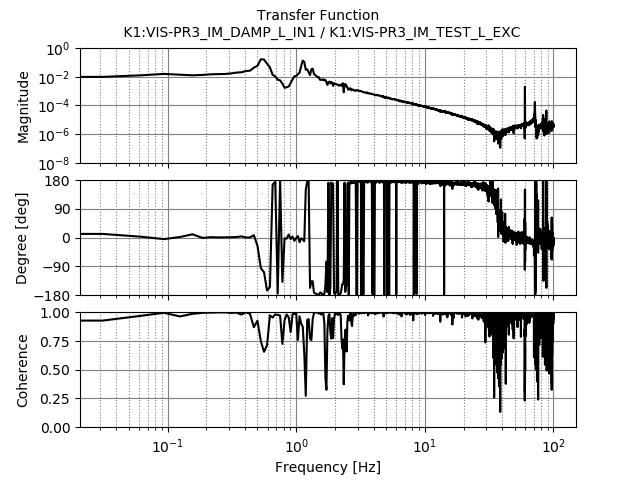
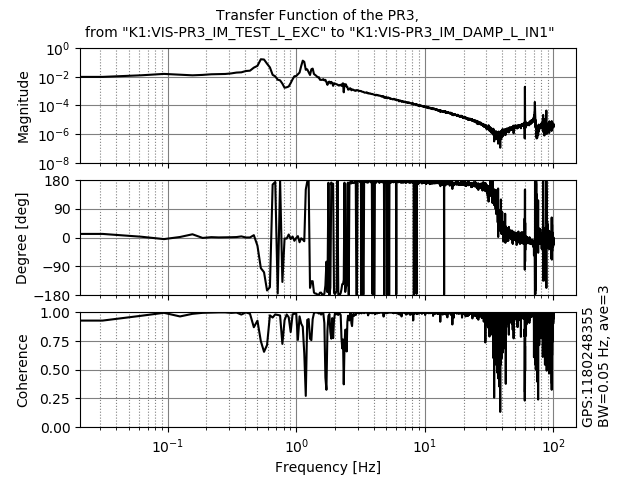
add test.py

Changed region(s): [[0.125, 0.0, 0.8438, 0.0938], [0.9062, 0.5938, 0.9688, 0.9062]]

diff --git a/plot.py b/plot.py
@@ -5,10 +5,41 @@ from dttdata import DttData
 import numpy as np
 
 
-def plottf(xmlname,chA,chB):
+def plottf(date,sus,stage,dof,prefix='./template'):
+    ''' Plot transfer function from template xml file of the diaggui(dtt).
+
+    This function export png file which plots single TF about dof you choose, 
+    does not plot other dof. So, if you choose dof as "L", this function 
+    plots the TF from L to L, does not plot coupling components such as a L-T,L-Y, 
+    and so on. (However, if you want plot about copuling composnent, you can plot 
+    with some modification.)
+
+    Rule of the  dtt xml file name is "<sus>_<stage>_<dof>_<date>.xml".
+    <sus> is a name of the suspension; PR2,PR3,..
+    <stage> is a name of the stage; IM,TM,..
+    <dof> is a excitation point; L,T,..    
+    
+    Parameter
+    ---------
+    date : str
+        JST date, which is given like "YYMMDD".
+    sus : str
+        Name of the suspension.
+    stage : str
+        Name of the stage.
+    dof : str
+        Name of the excitation point.
+    prefix : str
+        Place where the dtt xml files are located. Default is "./template"
+    '''
+    #
+    xmlname = './template/{0}_{1}{2}_exc_{3}.xml'.format(sus,stage,dof,date)
+    chA = 'K1:VIS-{0}_{1}_DAMP_{2}_IN1'.format(sus,stage,dof)
+    chB = 'K1:VIS-{0}_{1}_TEST_{2}_EXC'.format(sus,stage,dof)
     d = DttData(xmlname)
-    f1,mag1,deg1 = d.getCoherence('K1:VIS-PR3_IM_DAMP_L_IN1','K1:VIS-PR3_IM_TEST_L_EXC')
-    f2,mag2,deg2 = d.getTF('K1:VIS-PR3_IM_DAMP_L_IN1','K1:VIS-PR3_IM_TEST_L_EXC')
+    s = d.spect[0]
+    f1,mag1,deg1 = d.getCoherence(chA,chB)
+    f2,mag2,deg2 = d.getTF(chA,chB)
     #
     import matplotlib.pyplot as plt
     fig,(ax0,ax1,ax2) = plt.subplots(3,1)
@@ -36,18 +67,25 @@ def plottf(xmlname,chA,chB):
     ax2.yaxis.set_label_coords(-0.1,0.5)
     ax1.yaxis.set_label_coords(-0.1,0.5)    
     plt.setp(ax0.get_xticklabels(), visible=False)
-    plt.setp(ax1.get_xticklabels(), visible=False)    
-    plt.suptitle('Transfer Function \n {0} / {1}'.format(chA,chB),fontsize=10)
-    plt.savefig(xmlname.replace('xml','png'))
+    plt.setp(ax1.get_xticklabels(), visible=False)
+    plt.suptitle('Transfer Function of the {0}, \n'\
+                 'from "{1}" to "{2}"'.format(sus,chB,chA),fontsize=10)
+    ax_pos = ax2.get_position()
+    fig.text(ax_pos.x1*1.01, ax_pos.y0,
+             'GPS:{0} \n'\
+             'BW={1:3.2f} Hz, ave={2}'\
+             ''\
+             ''.format(int(float(s.t0)),float(s.BW),s.Averages,s.Window),
+                 rotation=90,verticalalignment='bottom')                     
+    plt.savefig(xmlname.replace('xml','png'))    
     plt.close()
+    print('plot as {}'.format(xmlname.replace('xml','png')))
     
     
 if __name__ == '__main__':
+    date = '180614'       
     sus = 'PR3'
-    exc = 'IML'
-    date = '180614'
-    xmlname = './template/{0}_{1}_exc_{2}.xml'.format(sus,exc,date)
-    chA = 'K1:VIS-PR3_IM_DAMP_L_IN1'
-    chB = 'K1:VIS-PR3_IM_TEST_L_EXC'
-    plottf(xmlname,chA,chB)
+    stage = 'IM'
+    dof = 'L'
+    plottf(date,sus,stage,dof)
     

diff --git a/test.py b/test.py
@@ -1,0 +1,80 @@
+#
+#! coding:utf-8
+
+from plot import plottf
+
+def testReference():
+    xmlname = 'test.xml'
+    d = DttData(xmlname)
+    d.getAllSpectrumName()
+
+def testDttSpectrumInfo():
+    xmlname = 'test.xml'
+    d = DttData(xmlname)    
+    chnameA = 'K1:PEM-IY0_SEIS_NS_SENSINF_OUT_DQ'
+    d.getASDInfo(chnameA,ref=False)
+    
+def testASD():
+    xmlname = 'test.xml'
+    d = DttData(xmlname)    
+    chnameA = 'K1:PEM-IY0_SEIS_NS_SENSINF_OUT_DQ'
+    chnameB = 'K1:PEM-EX1_SEIS_NS_SENSINF_OUT_DQ'
+    chnameC = 'K1:PEM-IY0_SEIS_WE_SENSINF_OUT_DQ'
+    plt.figure(num=None, figsize=(12, 6), dpi=80)
+    f,asd = d.getASD(chnameA,ref=True)
+    plt.loglog(f,asd,label=chnameA+'Ref')
+    f,asd = d.getASD(chnameA,ref=False)
+    plt.loglog(f,asd,label=chnameA)
+    f,asd = d.getASD(chnameB,ref=False)
+    plt.loglog(f,asd,label=chnameB)
+    #plt.ylim(1e-23,1e-12)
+    plt.legend()
+    plt.savefig('test_asd.png')
+    plt.close()    
+   
+    
+def testCSD():
+    xmlname = 'test.xml'
+    d = DttData(xmlname)
+    chnameA = 'K1:PEM-IY0_SEIS_NS_SENSINF_OUT_DQ'
+    chnameB = 'K1:PEM-EX1_SEIS_NS_SENSINF_OUT_DQ'
+    chnameC = 'K1:PEM-IY0_SEIS_WE_SENSINF_OUT_DQ'
+    f,csd,deg = d.getCSD(chnameA,chnameB,ref=False)
+    plt.figure(num=None, figsize=(12, 6), dpi=80)
+    plt.loglog(f,csd,label='/'.join([chnameB,chnameA]))
+    #f,csd,deg = d.getCSD(chnameA,chnameC)
+    plt.ylim(1e-23,1e-12)
+    #plt.loglog(f,csd,label='/'.join([chnameC,chnameA]))
+    plt.legend()
+    plt.savefig('test_csd.png')
+    plt.close()    
+
+def testCoherence():
+    xmlname = 'test.xml'
+    d = DttData(xmlname)    
+    chnameA = 'K1:PEM-IY0_SEIS_NS_SENSINF_OUT_DQ'
+    chnameB = 'K1:PEM-EX1_SEIS_NS_SENSINF_OUT_DQ'
+    chnameC = 'K1:PEM-IY0_SEIS_WE_SENSINF_OUT_DQ'
+    f,mag,deg = d.getCoherence(chnameA,chnameB,ref=False)
+    plt.figure(num=None, figsize=(12, 6), dpi=80)
+    plt.subplot(211)
+    plt.semilogx(f,mag,label='/'.join([chnameB,chnameA]))
+    plt.legend()
+    plt.subplot(212)
+    plt.semilogx(f,deg,label='/'.join([chnameB,chnameA]))
+    plt.legend()
+    plt.savefig('test_coh.png')
+    plt.close()        
+
+  
+def test_plottf():
+    date = '180614'       
+    sus = 'PR3'
+    stage = 'IM'
+    dof = 'L'
+    plottf(date,sus,stage,dof)
+
+
+if __name__=='__main__':
+    test_plottf()
+   

diff --git a/DttData.py b/DttData.py
@@ -132,66 +132,5 @@ class DttData():
         f,ASD_A = self.getASD(chnameA)
         f,ASD_B = self.getASD(chnameB)
         mag = CSD_AB/(ASD_B*ASD_B)
-        return f,mag,deg
-    
+        return f,mag,deg    
 
-def testReference():
-    d.getAllSpectrumName()
-
-def testDttSpectrumInfo():
-    chnameA = 'K1:PEM-IY0_SEIS_NS_SENSINF_OUT_DQ'
-    d.getASDInfo(chnameA,ref=False)
-    
-def testASD():
-    chnameA = 'K1:PEM-IY0_SEIS_NS_SENSINF_OUT_DQ'
-    chnameB = 'K1:PEM-EX1_SEIS_NS_SENSINF_OUT_DQ'
-    chnameC = 'K1:PEM-IY0_SEIS_WE_SENSINF_OUT_DQ'
-    plt.figure(num=None, figsize=(12, 6), dpi=80)
-    f,asd = d.getASD(chnameA,ref=True)
-    plt.loglog(f,asd,label=chnameA+'Ref')
-    f,asd = d.getASD(chnameA,ref=False)
-    plt.loglog(f,asd,label=chnameA)
-    f,asd = d.getASD(chnameB,ref=False)
-    plt.loglog(f,asd,label=chnameB)
-    #plt.ylim(1e-23,1e-12)
-    plt.legend()
-    plt.savefig('test_asd.png')
-    plt.close()    
-    
-def testCSD():
-    chnameA = 'K1:PEM-IY0_SEIS_NS_SENSINF_OUT_DQ'
-    chnameB = 'K1:PEM-EX1_SEIS_NS_SENSINF_OUT_DQ'
-    chnameC = 'K1:PEM-IY0_SEIS_WE_SENSINF_OUT_DQ'
-    f,csd,deg = d.getCSD(chnameA,chnameB,ref=False)
-    plt.figure(num=None, figsize=(12, 6), dpi=80)
-    plt.loglog(f,csd,label='/'.join([chnameB,chnameA]))
-    #f,csd,deg = d.getCSD(chnameA,chnameC)
-    plt.ylim(1e-23,1e-12)
-    #plt.loglog(f,csd,label='/'.join([chnameC,chnameA]))
-    plt.legend()
-    plt.savefig('test_csd.png')
-    plt.close()    
-
-def testCoherence():
-    chnameA = 'K1:PEM-IY0_SEIS_NS_SENSINF_OUT_DQ'
-    chnameB = 'K1:PEM-EX1_SEIS_NS_SENSINF_OUT_DQ'
-    chnameC = 'K1:PEM-IY0_SEIS_WE_SENSINF_OUT_DQ'
-    f,mag,deg = d.getCoherence(chnameA,chnameB,ref=False)
-    plt.figure(num=None, figsize=(12, 6), dpi=80)
-    plt.subplot(211)
-    plt.semilogx(f,mag,label='/'.join([chnameB,chnameA]))
-    plt.legend()
-    plt.subplot(212)
-    plt.semilogx(f,deg,label='/'.join([chnameB,chnameA]))
-    plt.legend()
-    plt.savefig('test_coh.png')
-    plt.close()        
-    
-if __name__ == '__main__':
-    xmlname = 'test.xml'
-    d = DttData(xmlname)
-    #testReference()
-    testASD()
-    #testCSD()
-    #testCoherence()
-    #testDttSpectrumInfo()

diff --git a/__init__.py b/__init__.py
@@ -1,0 +1,4 @@
+#
+#! coding:utf-8
+
+from . import plot

diff --git a/.#plot.py b/.#plot.py
@@ -1,0 +1,1 @@
+miyo@miyo-2.local.23018
